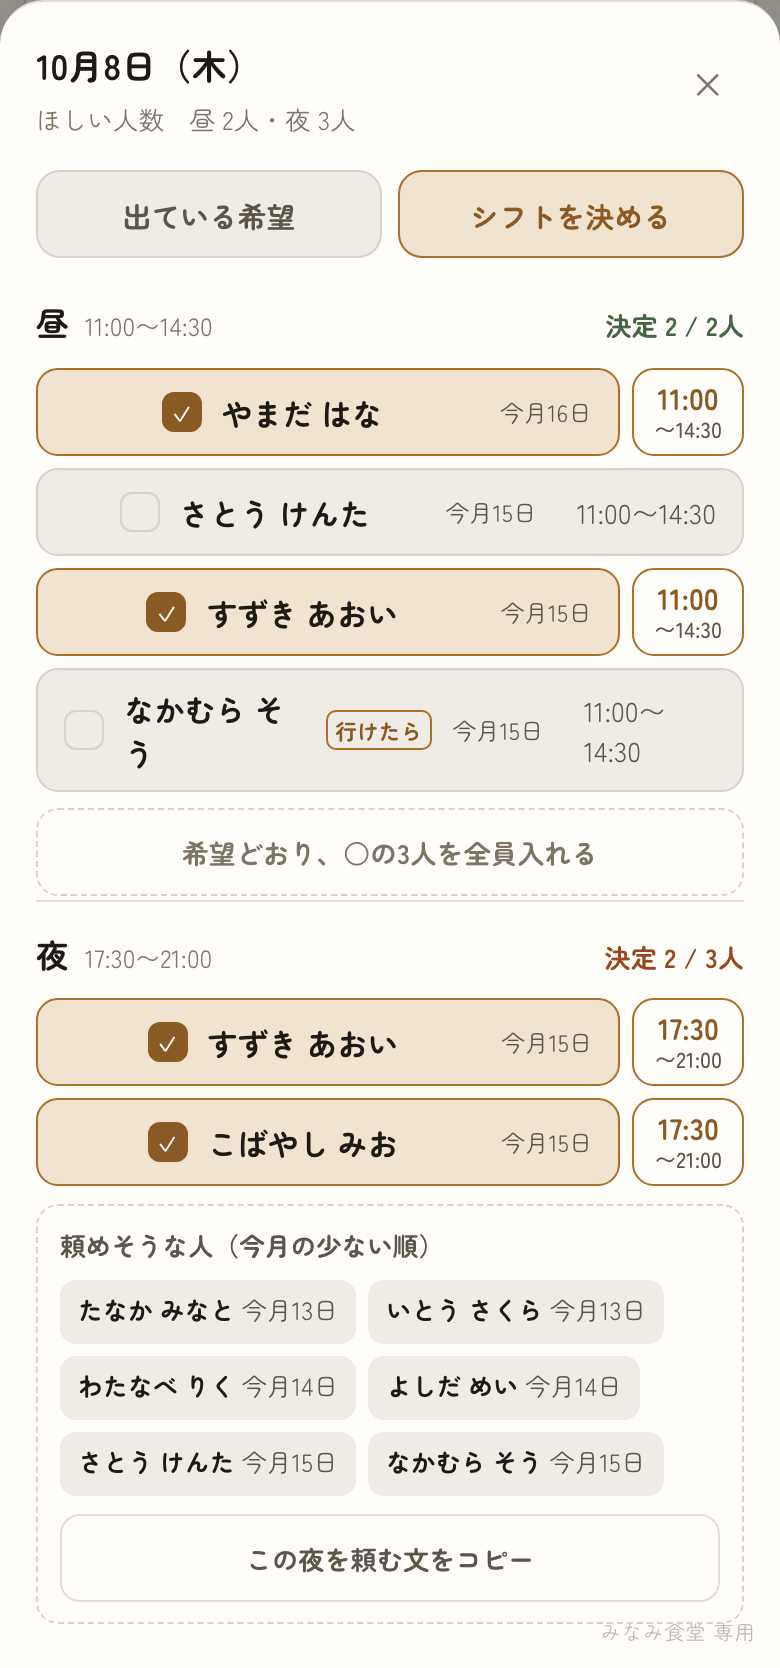
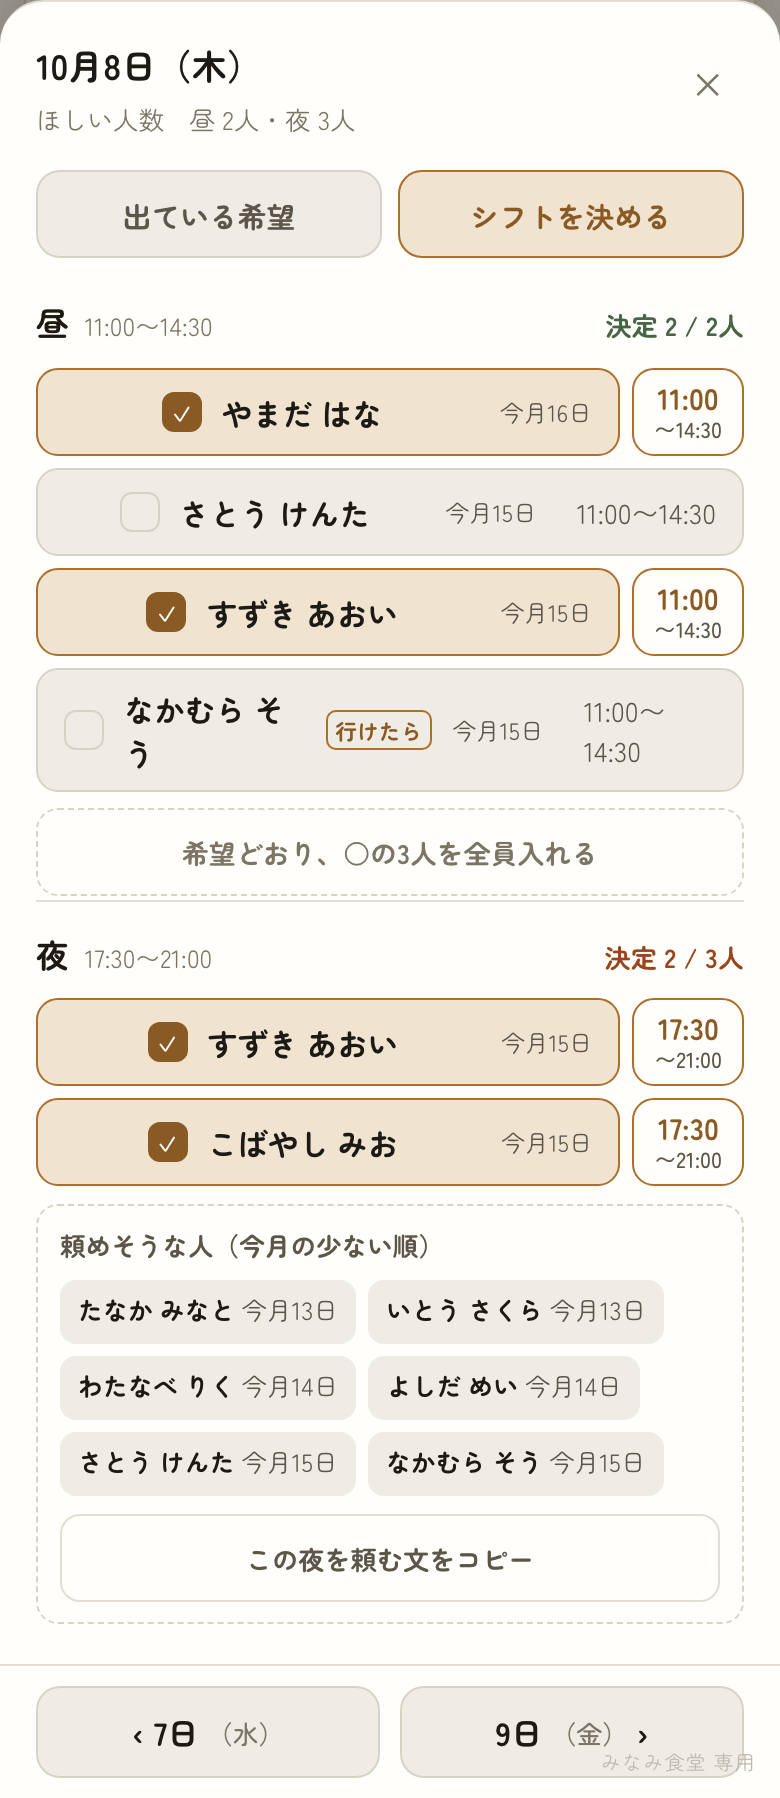
せんや店長：日のシートで前の日・次の日へ移れるように（横スワイプ・下の「‹ 7日（水）」「9日（金）›」・←→キー。月の外へは出ない。お店からのご要望）。説明書の項目23に追記・k-kime.png を撮り直し。反証役（BLOCKER0・WARN2・NOTE7）を処置：動きを減らす設定が効かない・保存中に日を移ると押した名前が黙って捨てられる（保存中は移らない）・表示に戻るたびすべり直す・Cmd+← を奪う・月末でフォーカスが消える・横向きでバーが大きい・チュートリアル中のスワイプ
Claude-Session: https://claude.ai/code/session_01SnCiM4MRnoY7MzgZqzWXu6

diff --git a/tsumiki-senya-kanri.html b/tsumiki-senya-kanri.html
@@ -388,6 +388,7 @@
     .topbar{padding-top:calc(env(safe-area-inset-top) + 6px); padding-bottom:6px;}
     .login{padding-block:16px;}
     .sheet{max-height:96vh; max-height:96dvh;}
+    .daynav{margin-top:12px; padding-top:6px; padding-bottom:calc(env(safe-area-inset-bottom) + 6px);}
   }
 
   [hidden]{display:none !important;}
@@ -562,6 +563,26 @@
     font-family:inherit; font-size:1rem; line-height:1; cursor:pointer; border-radius:11px;}
   .closex:active{transform:scale(.94);}
   .sheet h2{padding-right:var(--tap);}
+
+  /* その日のシートの下に貼りつく「‹ 前の日」「次の日 ›」（横スワイプでも同じ）。
+     ⚠ シート自体がスクロールするので sticky で下に残す。下の余白（安全域＋20px）の分だけ下げて、
+        シートの縁にぴったり付ける。中身の最後がバーに隠れないよう、上に余白を持たせる */
+  .daynav{position:sticky; bottom:calc(-1 * (env(safe-area-inset-bottom) + 20px)); z-index:2;
+    display:flex; gap:10px; margin:18px calc(-1 * max(18px, env(safe-area-inset-left))) calc(-1 * (env(safe-area-inset-bottom) + 20px));
+    padding:10px max(18px, env(safe-area-inset-left)) calc(env(safe-area-inset-bottom) + 10px);
+    background:var(--surface); border-top:1px solid var(--line);}
+  .daynav button{flex:1; min-width:0; min-height:var(--tap); padding:10px 8px; border:1.5px solid var(--line-2); border-radius:12px;
+    background:var(--surface-2); color:var(--ink); font-family:var(--sans); font-size:1rem; font-weight:700; cursor:pointer;
+    display:flex; align-items:center; justify-content:center; gap:4px; white-space:nowrap; font-variant-numeric:tabular-nums;}
+  .daynav button small{font-size:.8rem; font-weight:500; color:var(--ink-soft);}
+  .daynav button:active{transform:scale(.97);}
+  .daynav button.none{visibility:hidden;}
+  /* 日を移ったときに、どちらへ動いたかが分かる程度に中身を少しすべらせる */
+  @keyframes dayInL{from{opacity:.35; transform:translateX(26px);} to{opacity:1; transform:none;}}
+  @keyframes dayInR{from{opacity:.35; transform:translateX(-26px);} to{opacity:1; transform:none;}}
+  #mDay.inL > :not(.daynav){animation:dayInL .2s ease-out;}
+  #mDay.inR > :not(.daynav){animation:dayInR .2s ease-out;}
+  @media (prefers-reduced-motion:reduce){ #mDay.inL > :not(.daynav), #mDay.inR > :not(.daynav){animation:none;} }
 
   /* スタッフの「そのほか」と、その中身 */
   /* ⚠ 以前は「…」の一文字だけで、枠も背景も無かった（.btn.sm.more で background:none; border:none）。
@@ -845,7 +866,7 @@
 
   <!-- ① その日 -->
   <div id="mDay">
-    <h2 id="shTitle">—</h2>
+    <h2 id="shTitle" aria-live="polite">—</h2>
     <div class="sub" id="shSub"></div>
     <div class="modeseg" id="modeSeg">
       <button data-m="kibo" class="on">出ている希望</button>
@@ -855,6 +876,11 @@
     <div class="dayacts" id="dayActs">
       <button class="btn sub" id="actFill">代わりに入れる</button>
       <button class="btn sub" id="actNeed">この日の必要人数</button>
+    </div>
+    <!-- 前の日・次の日（横スワイプでも同じ）。月の外へは出ない＝その月のデータしか持っていないため -->
+    <div class="daynav" id="dayNav">
+      <button id="dPrev" aria-label="前の日"></button>
+      <button id="dNext" aria-label="次の日"></button>
     </div>
   </div>
 
@@ -1867,6 +1893,7 @@ async function assignAuto(k){
 
 function openDay(key){
   shDate=key;
+  document.getElementById('mDay').classList.remove('inL','inR');   // 残すと、表示に戻るたびにすべり直す
   const w=wdayOf(key), rest=(shop.closed_wdays||[]).indexOf(w)>=0;
   const ov=!!dayNeed[key];
   document.getElementById('shTitle').textContent=fmtDateJP(key)+'（'+WD[w]+'）';
@@ -1877,9 +1904,68 @@ function openDay(key){
   document.getElementById('dayActs').hidden=(dayMode==='kime');
   if(dayMode==='kime') renderKime();
   else document.getElementById('slots').innerHTML=slots().map(slotKiboHtml).join('');
+  paintDayNav();
   showMode('mDay');
   backdrop.classList.add('show'); sheet.classList.add('show');
 }
+
+/* --- 前の日・次の日（ボタン・横スワイプ・←→キー） --- */
+function dayStep(key,delta){
+  const p=key.split('-').map(Number), d=p[2]+delta;
+  if(d<1 || d>daysInMonth(p[0],p[1])) return null;   // 月の外へは出ない
+  return ymd(p[0],p[1],d);
+}
+function paintDayNav(){
+  [['dPrev',-1],['dNext',1]].forEach(([id,dl])=>{
+    const b=document.getElementById(id), k=dayStep(shDate,dl);
+    b.classList.toggle('none',!k); b.disabled=!k;
+    if(!k){ b.innerHTML=''; return; }
+    const lab=(+k.split('-')[2])+'日<small>（'+WD[wdayOf(k)]+'）</small>';
+    b.innerHTML = dl<0 ? '‹ '+lab : lab+' ›';
+    b.setAttribute('aria-label',(dl<0?'前の日 ':'次の日 ')+fmtDateJP(k));
+  });
+}
+function goDay(delta){
+  if(!sheet.classList.contains('show') || document.getElementById('mDay').hidden) return;
+  const k=dayStep(shDate,delta); if(!k) return;
+  /* ⚠ 保存の返事を待つあいだは移らない。移った先で押した名前は busy で黙って捨てられ、
+        時間の保存は終わると元の日を開き直して引き戻すため */
+  if(busy){ toast('保存しています。少し待ってください'); return; }
+  const had=document.activeElement && document.activeElement.closest && document.activeElement.closest('#dayNav');
+  openDay(k);
+  const m=document.getElementById('mDay');
+  void m.offsetWidth; m.classList.add(delta>0?'inL':'inR');
+  // 押したボタンが月の端で消えると、フォーカスが行方不明になる。もう片方へ移す
+  if(had && document.activeElement && document.activeElement.disabled)
+    document.getElementById(delta>0?'dPrev':'dNext').focus();
+}
+document.getElementById('dPrev').addEventListener('click',()=>goDay(-1));
+document.getElementById('dNext').addEventListener('click',()=>goDay(1));
+(function(){
+  /* ⚠ iPhone の Safari は画面の左右の端から引くと「前のページに戻る」。端から始まった指は拾わない。
+     縦のスクロールと取り合わないよう、横の動きが縦の1.5倍以上・60px以上・0.8秒以内だけを日送りにする */
+  const EDGE=24; let t0=null;
+  const m=document.getElementById('mDay');
+  m.addEventListener('touchstart',e=>{
+    const t=e.touches[0];
+    t0 = (e.touches.length===1 && t.clientX>EDGE && t.clientX<innerWidth-EDGE && !e.target.closest('input,textarea,select'))
+       ? {x:t.clientX, y:t.clientY, at:Date.now()} : null;
+  },{passive:true});
+  m.addEventListener('touchend',e=>{
+    if(!t0 || tutOn) { t0=null; return; }
+    const t=e.changedTouches[0], dx=t.clientX-t0.x, dy=t.clientY-t0.y, ms=Date.now()-t0.at; t0=null;
+    if(Math.abs(dx)>=60 && Math.abs(dx)>Math.abs(dy)*1.5 && ms<800) goDay(dx<0?1:-1);
+  },{passive:true});
+  m.addEventListener('touchcancel',()=>{ t0=null; },{passive:true});
+  document.addEventListener('keydown',e=>{
+    if(e.key!=='ArrowLeft' && e.key!=='ArrowRight') return;
+    if(e.metaKey || e.altKey || e.ctrlKey || e.shiftKey) return;   // Cmd+← など、ブラウザの操作は奪わない
+    if(e.target.closest && e.target.closest('input,textarea,select,[role=tab]')) return;
+    if(tutOn) return;
+    if(!sheet.classList.contains('show') || document.getElementById('mDay').hidden) return;
+    e.preventDefault(); goDay(e.key==='ArrowRight'?1:-1);
+  });
+})();
 document.getElementById('modeSeg').addEventListener('click',e=>{
   const b=e.target.closest('button'); if(!b) return; dayMode=b.dataset.m; openDay(shDate);
 });
@@ -2913,6 +2999,8 @@ function tutMaybeStart(){
   })();
 </script>
 <!-- /tsumiki-license-gate -->
+
+
 
 
 

diff --git a/tsumiki-senya-tsukaikata.html b/tsumiki-senya-tsukaikata.html
@@ -583,9 +583,10 @@
     </article>
 
 <article class="item" id="i23">
-      <div class="figs"><figure class="shot"><img src="senya-shots/k-kime.png" alt="シフトを決める画面" loading="lazy" decoding="async" width="780" height="1668"><figcaption>名前を押すだけ。✓がついた人がその日のシフト</figcaption></figure></div>
+      <div class="figs"><figure class="shot"><img src="senya-shots/k-kime.png" alt="シフトを決める画面" loading="lazy" decoding="async" width="780" height="1798"><figcaption>名前を押すだけ。✓がついた人がその日のシフト</figcaption></figure></div>
       <div class="txt"><h3><span class="n">23</span>シフトを決める<span class="who-tag m">店長</span></h3>
       <p>日をひらいて <kbd>シフトを決める</kbd> に切り替えると、<strong>名前を押すだけでその日のシフトが決まります</strong>。もう一度押せば外れます。「決定 2 / 3人」で、ほしい人数まであと何人かが分かります。</p>
+      <p>となりの日へは、<strong>横にスワイプ</strong>するか、下の <kbd>‹ 7日（水）</kbd> <kbd>9日（金） ›</kbd> で移れます。閉じて開き直す必要はありません（「出ている希望」でも同じです）。月の最初の日・最後の日では、その先のボタンは出ません。</p>
       <p>✓がついた人の右の<strong>時間を押すと、何時から入るかを変えられます</strong>（例：9:30〜／10:00〜）。よく使うはじまりの時間が札で出るので、押して「この時間にする」だけです。</p>
       <details class="more"><summary>くわしく</summary><div class="mb"><p class="fine"><kbd>希望どおり、○の◯人を全員入れる</kbd> を押すと、その枠の「入れます」の人を一度に入れられます。<b>月ぜんぶを一度に入れる近道もあります（次の項目）。</b><br><strong>自動では組みません。</strong>誰を入れるかは、必ず店長が決めます。</p></div></details></div>
     </article>
